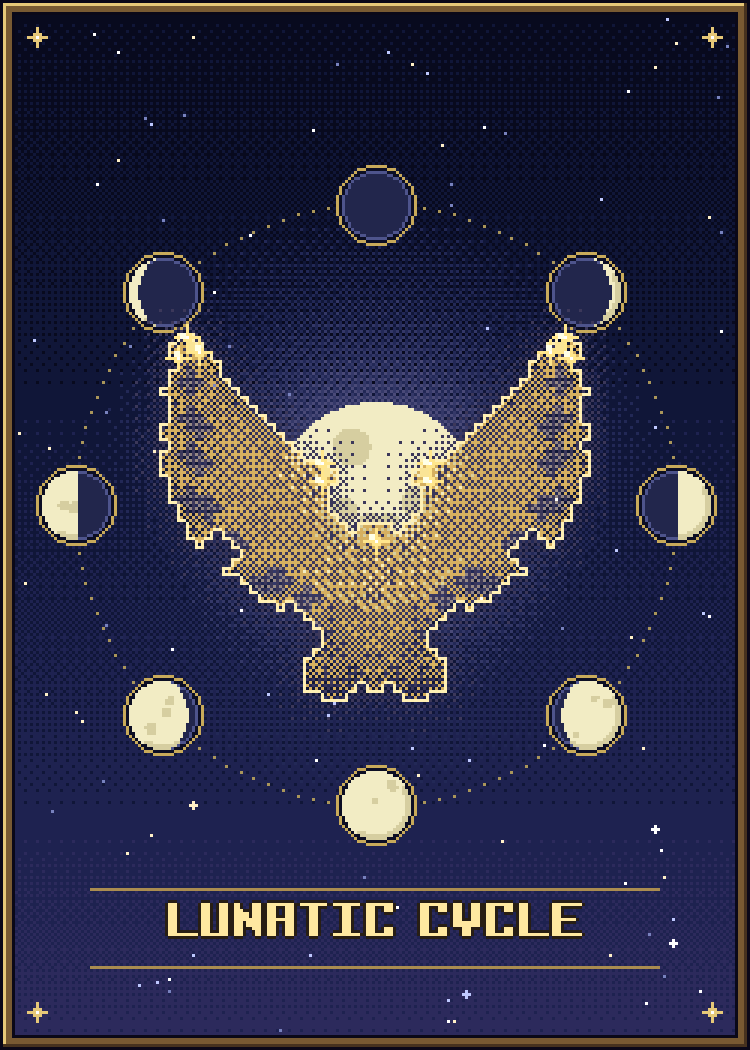
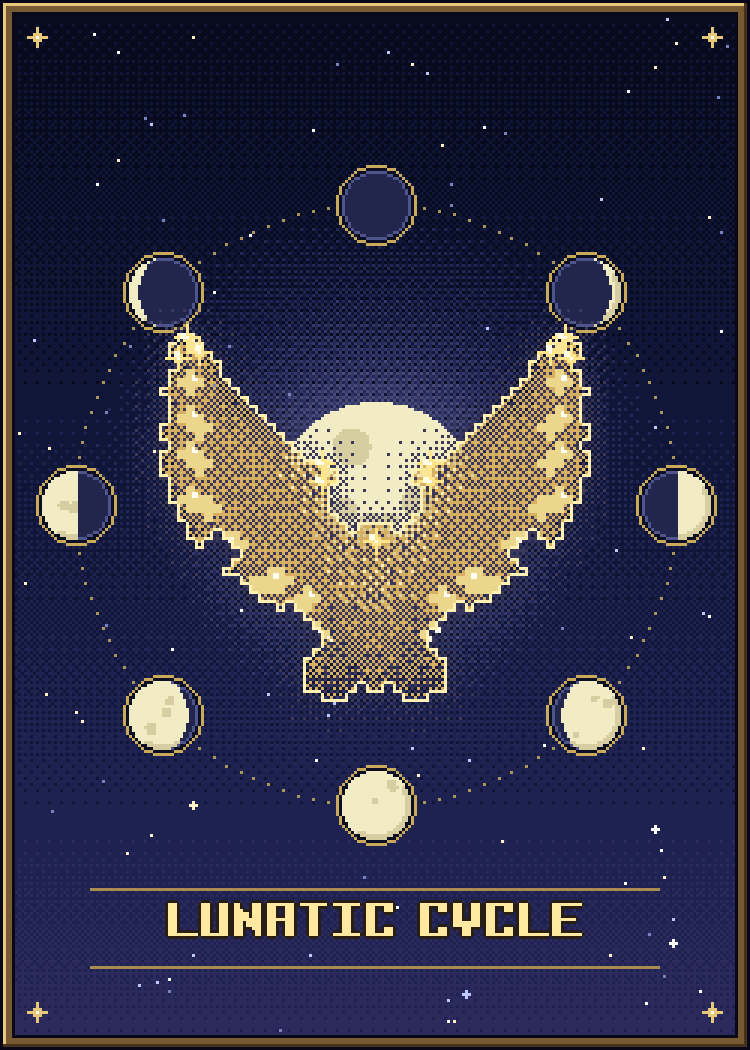
Lunatic Hawk: hellgelbe Mondlicht-Orbs in den Flügelflächen
Claude-Session: https://claude.ai/code/session_01QU6zaF1CRhUbwqrjdbxehJ

Changed region(s): [[0.2147, 0.3352, 0.4293, 0.6095], [0.552, 0.3352, 0.7667, 0.6095]]

diff --git a/scripts/sleeve-entwuerfe/s06_lunatic.py b/scripts/sleeve-entwuerfe/s06_lunatic.py
@@ -59,9 +59,29 @@ t = np.clip((Lk - 120) / 110, 0, 1)
 # Goldlinien wie im Original (Helligkeit -> fest / gedithert)
 solid = Hk & (t > 0.72)
 half = Hk & ~solid & dither_mask(None, t * 0.9 + 0.1)
-# blasse Federflächen dazwischen: durchscheinend
-pale = Ak & ~Hk & dither_mask(None, np.full(Lk.shape, 0.26))
-out[pale] = (150, 136, 132, 255)
+# Flächen zwischen den Goldlinien: hellgelbe Mondlicht-Orbs (innen heller)
+paleN = alpha & ~hl
+dist = ndimage.distance_transform_cdt(np.pad(paleN, 1), metric='chessboard')[1:-1, 1:-1]
+orbcol = np.zeros(paleN.shape + (4,), np.uint8)
+orbcol[paleN & (dist == 1)] = (236, 214, 140, 255)
+orbcol[paleN & (dist == 2)] = (250, 238, 176, 255)
+orbcol[paleN & (dist >= 3)] = (255, 250, 214, 255)
+ok = np.kron(orbcol, np.ones((k, k, 1))).astype(np.uint8)
+pale = ok[..., 3] > 0
+out[pale] = ok[pale]
+# Glanzpunkt je Orb
+labo, no = ndimage.label(paleN)
+orb_centers = []
+for sl in ndimage.find_objects(labo):
+    y0_, x0_ = sl[0].start, sl[1].start
+    for yy_ in range(sl[0].start, sl[0].stop):
+        row = np.where(paleN[yy_, sl[1]])[0]
+        if len(row):
+            x0_ = sl[1].start + row[0]; y0_ = yy_; break
+    hy_, hx_ = y0_ * k + 2, x0_ * k + 2
+    if hy_ + 1 < out.shape[0] and hx_ + 1 < out.shape[1]:
+        out[hy_:hy_ + 2, hx_:hx_ + 2] = (255, 255, 244, 255)
+    orb_centers.append(ndimage.center_of_mass(labo[sl] > 0))
 out[half] = (214, 176, 96, 255)
 out[solid] = (250, 228, 150, 255)
 out[edge] = (255, 240, 180, 255)
